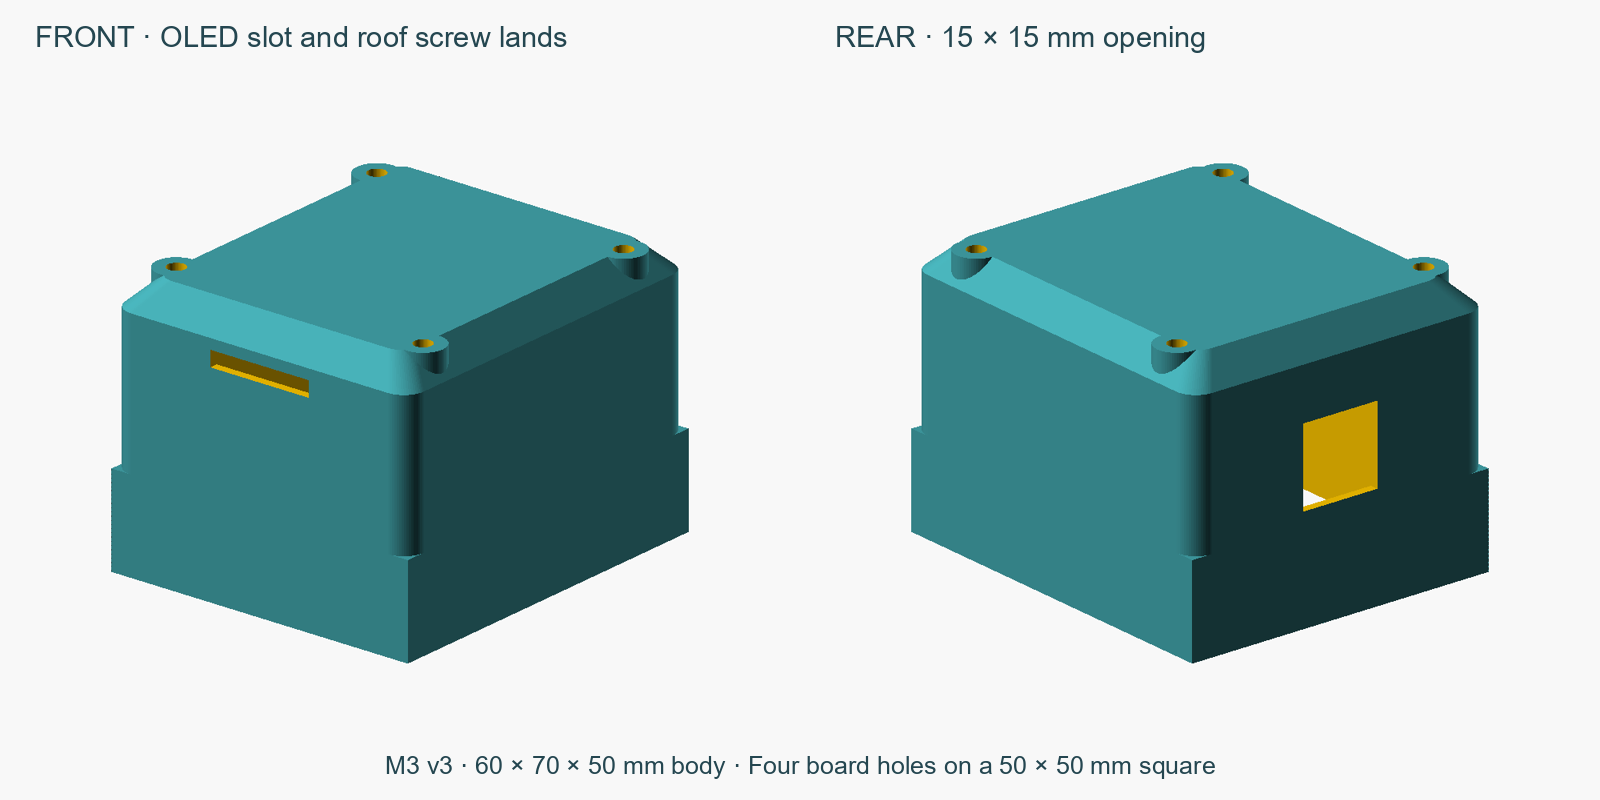
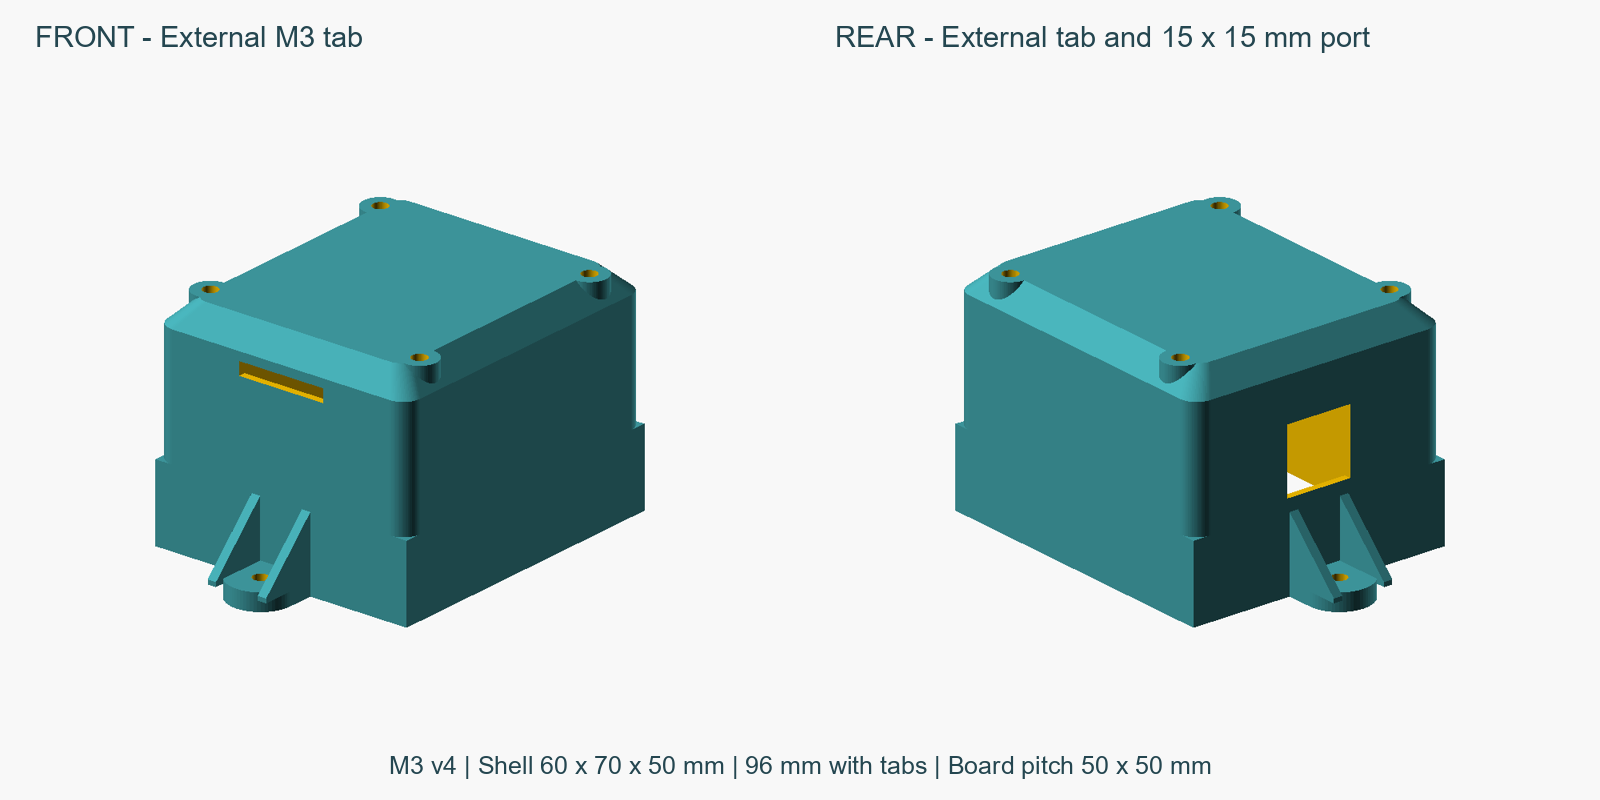
fix: orient MicroHuli chassis and move fasteners outside

diff --git a/hardware/MicroHuli/enclosure/build_body.py b/hardware/MicroHuli/enclosure/build_body.py
@@ -5,6 +5,7 @@ Uses only Python's standard library. CAD checks do not establish printed fit,
 servo clearance with real hardware, strength, or electronics compatibility.
 """
 import argparse
+from concurrent.futures import ThreadPoolExecutor
 import json
 import math
 from pathlib import Path
@@ -53,9 +54,14 @@ def check_assembly(openscad):
     checks = []
     with tempfile.TemporaryDirectory(prefix="microhuli-body-") as directory:
         folder = Path(directory)
+        cases = []
 
         def intersection(name, geometry, tools, minimum=0, maximum=0.01):
-            source, output = folder / "check.scad", folder / "check.stl"
+            cases.append((name, geometry, tools, minimum, maximum))
+
+        def run_case(indexed_case):
+            index, (name, geometry, tools, minimum, maximum) = indexed_case
+            source, output = folder / f"check-{index}.scad", folder / f"check-{index}.stl"
             source.write_text(
                 f'use <{SOURCE.as_posix()}>\n$fn=64;\n'
                 f'intersection() {{ {geometry} {tools} }}\n',
@@ -66,21 +72,24 @@ def check_assembly(openscad):
             found = volume(output)
             if not minimum <= found <= maximum:
                 raise ValueError(f"{name}: volume {found:.4f}, expected {minimum}..{maximum}")
-            checks.append({"check": name, "intersection_mm3": round(found, 4)})
-            print(f"PASS {name}: {found:.4f} mm3")
+            return {"check": name, "intersection_mm3": round(found, 4)}
 
-        intersection("assembled body/chassis clearance", "body();", "chassis();")
+        # Exclude the intentional shared Z=0 contact face: CGAL otherwise exports
+        # that zero-thickness surface as a non-manifold collision artifact.
+        intersection("assembled body/chassis clearance (0.001 mm face tolerance)",
+                     "body();", "translate([0,0,-0.001]) chassis();")
         # Independently specified axes catch misplaced holes and obstructions.
-        for y in (-29, 29):
+        for y in (-41, 41):
             intersection(f"chassis bolt {y}: shank/nut/tool access",
                          "union() { body(); chassis(); }", f'''union() {{
-                translate([0,{y},-1]) cylinder(d=3.2,h=9);
-                translate([0,{y},7.1]) cylinder(d=5.5/cos(30),h=20,$fn=6);
-                translate([0,{y},-20]) cylinder(d=8,h=19.9);
+                translate([0,{y},-6]) cylinder(d=3.2,h=11);
+                translate([0,{y},-20]) cylinder(d=5.5/cos(30),h=17.5,$fn=6);
+                translate([0,{y},4.1]) cylinder(d=8,h=30);
             }}''')
-            # Ensure each drill axis passes through actual original plate material.
-            intersection(f"original plate material at bolt {y}", "original_chassis();",
-                         f"translate([0,{y},0.2]) cylinder(d=3,h=1.5);", 10.5, 10.7)
+            intersection(f"external tab support at bolt {y}", "body();", f'''difference() {{
+                translate([0,{y},0.1]) cylinder(d=10,h=0.4);
+                translate([0,{y},0]) cylinder(d=4,h=1);
+            }}''', 26.3, 26.4)
         for x in (-25, 25):
             for y in (-25, 25):
                 intersection(f"board bolt {x},{y}: shank/head/nut access", "body();", f'''union() {{
@@ -97,13 +106,23 @@ def check_assembly(openscad):
                      "translate([-7.49,33,20.01]) cube([14.98,3,14.98]);")
         intersection("front OLED slot", "body();",
                      "translate([-9.99,-36,40.01]) cube([19.98,3,2.98]);")
-        # Chassis edits must consist only of the two specified clearance holes.
-        intersection("no added chassis material", "chassis();",
-                     "difference() { cube([100,100,100],center=true); original_chassis(); }")
-        intersection("no other chassis cuts", "original_chassis();", '''difference() {
-            difference() { cube([100,100,100],center=true); chassis(); }
-            for(y=[-29,29]) translate([0,y,-1]) cylinder(d=3.4,h=20);
-        }''')
+        # Compare added material against the shell so its rounded corners are
+        # not incorrectly classified as internal fastener obstructions.
+        intersection("lower body cavity clear of chassis mounts", "difference() { body(); shell(); }",
+                     "translate([-29,-33.99,0.01]) cube([58,67.98,19.9]);")
+        intersection("chassis entirely below the plate plane", "chassis();",
+                     "translate([-50,-50,0.01]) cube([100,100,30]);")
+        intersection("no original chassis cuts", "rotate([180,0,0]) original_chassis();",
+                     "difference() { cube([120,120,120],center=true); chassis(); }")
+        intersection("no added material in servo bays", '''difference() {
+            chassis(); rotate([180,0,0]) original_chassis();
+        }''', "translate([-27,-30.9,-20]) cube([54,61.8,19.9]);")
+        # Isolate the independent CAD renders and allow at most four processes
+        # at once to keep verification time and memory use bounded.
+        with ThreadPoolExecutor(max_workers=4) as pool:
+            for result in pool.map(run_case, enumerate(cases)):
+                checks.append(result)
+                print(f"PASS {result['check']}: {result['intersection_mm3']:.4f} mm3")
     return checks
 
 
@@ -119,27 +138,27 @@ def main():
     output.mkdir(parents=True, exist_ok=True)
     reports = {}
     for name in ("body", "chassis"):
-        path = output / f"MicroHuli_{name}_M3_v3.stl"
+        path = output / f"MicroHuli_{name}_M3_v4.stl"
         render(openscad, SOURCE, path, "--export-format", "binstl", "-D", f'part="{name}"')
         reports[name] = mesh(path)[2]
-        expected = [60, 70, 50] if name == "body" else [53, 66, 15.996]
+        expected = [60, 96, 50] if name == "body" else [53, 96, 15.996]
         if any(not math.isclose(a, b, abs_tol=0.01)
                for a, b in zip(reports[name]["size_mm"], expected)):
             raise ValueError(f"Unexpected {name} dimensions: {reports[name]}")
         print(f"PASS {name}: {reports[name]}")
     checks = check_assembly(openscad)
-    (output / "body_M3_v3_report.json").write_text(json.dumps({
+    (output / "body_M3_v4_report.json").write_text(json.dumps({
         "parts": reports, "checks": checks,
         "qualification": "CAD geometry only; no slicing or physical qualification",
     }, indent=2) + "\n", encoding="utf-8")
     if args.previews:
         for name, camera in (
-            ("assembly", "130,160,110,0,0,25"),
-            ("cutaway", "110,-160,105,0,0,24"),
+            ("assembly", "130,160,110,0,0,18"),
+            ("cutaway", "110,-160,105,0,0,18"),
             ("exploded", "120,-170,125,0,0,35"),
             ("body", "110,160,-100,0,0,25"),
         ):
-            render(openscad, SOURCE, output / f"body_M3_v3_{name}.png",
+            render(openscad, SOURCE, output / f"body_M3_v4_{name}.png",
                    "--render", "--imgsize=1200,1000", "--colorscheme=Tomorrow",
                    f"--camera={camera}", "--viewall", "--autocenter", "--projection=o",
                    "-D", f'part="{name}"', "-D", "print_orientation=false")

diff --git a/hardware/MicroHuli/enclosure/body-cute-50mm.md b/hardware/MicroHuli/enclosure/body-cute-50mm.md
@@ -1,11 +1,13 @@
 # MicroHuli body with a small sloped roof edge
 
 This is the corrected body requested after the raised-rim interpretation was
-rejected. Outside dimensions are **60 × 70 × 50 mm total**, including the roof.
+rejected. The main shell is **60 × 70 × 50 mm**, including the roof.
 It has a **closed top**, a small **5 mm sloped shoulder** like the original
 cover, softly rounded upper plan corners, and an open bottom for the chassis.
-The current **M3 v3** revision adds a matched drilled chassis, two chassis
-fasteners and four roof standoffs for the development board.
+The current **M3 v4** revision puts both chassis fasteners on external front/rear
+tabs. The chassis is assembled with its **flat plate on top and servo brackets
+pointing down**, leaving the body cavity free for components. Four roof standoffs
+hold the development board.
 
 ![Front and rear of the corrected body](body-cute-50mm.png)
 
@@ -16,33 +18,38 @@ fasteners and four roof standoffs for the development board.
 - Rear USB opening: **15 × 15 mm**, centered, 20–35 mm above the bottom. Its
   upper edge is **15 mm below the top**. Check actual connector alignment.
 - Upper walls and flat roof: **1.6 mm**. Lower collar: 1 mm walls with a nominal
-  **58 × 68 mm cavity for the first 16 mm**, before the front/rear mounting lugs.
+  **58 × 68 mm cavity for the first 16 mm**, without internal chassis mounting lugs.
   A short transition joins the square collar to rounded upper corners. The cavity
   narrows beneath the roof shoulder.
-- Two chassis screws: **58 mm apart**, at X=0, Y=±29 mm. Body lugs contact the
-  approximately 2 mm chassis plate and include 5.8 mm across-flats nut pockets.
-  The original servo brackets and chassis outline are preserved; only two
-  **3.4 mm through holes** are cut into the original chassis plate.
+- Two external chassis screws: **82 mm apart**, at X=0, Y=±41 mm. Each body tab
+  is 4 mm thick and mates with a 5 mm chassis tab. Both have **3.4 mm through
+  holes**. The chassis tabs have 5.8 mm across-flats nut pockets open from below.
+  External side ribs reinforce the body tabs and leave the screw/tool axes clear.
+  The original chassis plate and servo brackets have no holes or cuts added.
 - Four board screws: **50 × 50 mm centre-to-centre**, at X=±25, Y=±25 mm.
   Standoffs are 8 mm diameter with 3.4 mm through holes. Their PCB contact plane
   is Z=40 mm, 8.4 mm below the main roof underside. Flat screw-head lands extend
   through the sloped roof shoulder; screw heads sit outside the roof. Local
   relief below the posts clears 7 mm washers/nuts and retains 1.3 mm outer wall.
-- Nominal plastic envelope remains **60 × 70 × 50 mm**; exposed fastener heads
-  add height. The supplied hole spacing does not establish the board outline,
+- The external tabs extend **13 mm beyond each end** of the shell. Body plastic
+  envelope is **60 × 96 × 50 mm**, revised chassis is **53 × 96 × 15.996 mm**.
+  In assembly, the chassis extends below the body, giving about **66 mm total
+  plastic height**, without legs or screw heads. The supplied board hole spacing
+  does not establish the board outline,
   populated component envelope, connector alignment or battery/wiring clearance.
 
 ## M3 assembly
 
-Use the **M3 v3 body and chassis together**. Earlier body exports have no mounts;
-the original chassis has no matching M3 holes. Exported parts are in millimetres.
+Use the **M3 v4 body and chassis together**. V3 used internal mounting lugs and
+the wrong assembled chassis orientation; do not mix those exports with v4.
+Exported STL files are oriented for printing, not assembled positioning.
 
-1. Dry-fit the printed chassis inside the body's lower opening with power
-   disconnected. Its bottom plate and the body rim share Z=0; the servo brackets
-   extend into the lower body. Check the actual servos, plugs and moving legs.
-2. With the body still separate, place **two ordinary M3 hex nuts** into the
-   internal front/rear pockets from the cavity side. Tweezers may help. The
-   pockets are open above the nuts; printed retention is not assumed.
+1. With power disconnected, turn the printed chassis over so the flat plate is
+   on top and all servo brackets point down. Its plate top is assembled Z=0;
+   the brackets reach approximately Z=-16 mm. The body rim also meets Z=0.
+2. Put **two ordinary M3 hex nuts** into the underside pockets of the external
+   chassis tabs. All chassis fastener hardware is accessible outside the shell;
+   printed nut retention is not assumed.
 3. Mount the development board under the roof using **four M3 × 16 mm bolts,
    four M3 nuts and suitable M3 washers**. Bolts enter from outside the roof,
    pass through the standoffs and board, and receive nuts below the PCB. The
@@ -50,17 +57,18 @@ the original chassis has no matching M3 holes. Exported parts are in millimetres
    where possible. Use insulating washers and verify clearance from copper,
    solder and components. The length assumes approximately 1.6 mm PCB thickness;
    dry-fit the hardware and check protruding ends before tightening.
-4. Place the body onto the revised chassis. Insert **two M3 × 12 mm bolts with
-   washers from underneath the chassis** into the body nuts. The plastic grip to
-   each nut floor is approximately 7 mm. Tighten gently; these are printed lugs.
+4. Align the external front/rear body and chassis tabs. Insert **two M3 × 12 mm
+   bolts with washers from above the body tabs**, into the chassis nuts below.
+   Grip to each nut's bearing face is approximately 6.4 mm. Hold the nuts from
+   below if necessary and tighten gently. The external ribs clear an 8 mm tool
+   envelope above each screw axis.
 5. Check USB access through the enlarged rear opening, wire routing, battery
    clearance and leg travel before powering the robot.
 
-Reprinting the revised chassis gives the matching holes. To reuse an existing
-chassis, the nominal axes are on its centreline, **4 mm inward from each short
-edge** (58 mm apart). Remove all electronics and servos before drilling; check
-the printed dimensions and hole positions first. No drilling template or
-physical drilling test is included.
+**Reprint the revised chassis:** its integral external tabs are required. Drilling
+the old chassis does not add these tabs. The current design adds material only
+at the front/rear tabs, leaving the original servo bays clear in CAD. Physical
+servo, leg and ground clearance still need checking.
 
 ![M3 body and chassis, cut away to show the mounts](body-m3-cutaway.png)
 
@@ -74,17 +82,17 @@ python hardware/MicroHuli/enclosure/build_body.py --previews
 
 Outputs in `exports/`:
 
-- `MicroHuli_body_M3_v3.stl`: body, roof on the bed.
-- `MicroHuli_chassis_M3_v3.stl`: original chassis with the two matching holes,
-  bottom plate on the bed.
-- `body_M3_v3_report.json`: mesh, dimensions, mating clearance, port and fastener
+- `MicroHuli_body_M3_v4.stl`: body, roof on the bed.
+- `MicroHuli_chassis_M3_v4.stl`: chassis with matching external tabs, flat plate
+  on the bed and servo brackets upward. Flip it over for assembly.
+- `body_M3_v4_report.json`: mesh, dimensions, mating clearance, port and fastener
   access checks. Generated previews include assembled, cutaway and exploded views.
 
 The body export puts the closed central roof on the bed and the open bottom upward.
 The 5 mm shoulder grows outward at approximately 45° in this orientation.
 Start with a 0.4 mm nozzle and 0.2 mm layers; inspect wall paths, shoulder
-layers, nut-pocket bridges, lug gussets and both cable openings in the slicer.
-The gussets slope toward the walls to support roof-down printing. Support needs,
+layers, nut-pocket bridges, external tab ribs and both cable openings in the slicer.
+The ribs slope toward the walls to support roof-down printing. Support needs,
 physical printing, joint strength and component fit have not been verified.
 
 Set `print_orientation=false` for an upright view. Edit parameters in

diff --git a/tasks/microhuli-import.md b/tasks/microhuli-import.md
@@ -132,3 +132,37 @@ Physical Nano/OLED/IR, the connected build's 485-byte runtime memory margin and 
 - No slicing, printing or hardware qualification. Board outline, populated
   component/battery/wiring clearance, actual fasteners and printed joint strength
   still require a dry-fit.
+
+## External chassis screws and corrected orientation
+
+- User confirmed the chassis flat plate belongs on top with servo brackets down.
+  V3 previews incorrectly put the brackets inside the shell. Rigidly rotate the
+  original chassis 180 degrees about X in assembly; keep plate-on-bed orientation
+  for the printable chassis export.
+- Replace internal chassis bosses/holes with two external front/rear pairs of
+  integral tabs at Y=±41 mm, 82 mm apart. Body tabs are 4 mm thick, chassis tabs
+  5 mm, with bottom-access M3 nut pockets and top-access M3 × 12 mm screws.
+  Side ribs support the body tabs and leave the driver axis clear.
+- Shell remains 60 × 70 × 50 mm; external tabs add 13 mm at each end, giving a
+  60 × 96 × 50 mm body envelope. Keep the board mounts and 15 × 15 mm rear port.
+  Remove the v3 holes from the original chassis plate; preserve all original
+  chassis material and servo bays. Revised chassis must be reprinted.
+- Reuse branch and draft PR #55. Generate distinctly named M3 v4 artifacts to
+  avoid mixing v3 and v4. Both exported meshes pass the closed/wound/connected,
+  positive-volume, dimensions and bed checks. All 19 independent CAD checks pass,
+  including external bolt/nut/driver access, board supports, ports, lower cavity,
+  plate-up orientation and original chassis/servo-bay preservation.
+- Collision checking excludes the shared contact face by 0.001 mm for CGAL;
+  independent trimesh/manifold checking also confirms zero volumetric overlap at
+  the exact assembled position. Its mesh and clear central lower-cavity checks
+  pass. The lower-cavity CAD probe compares added material against the shell to
+  avoid counting its existing rounded corners as fastener obstructions.
+- Independent CAD renders use unique temporary files and at most four parallel
+  processes. Python compilation, changed Markdown formatting, guide links and
+  diff checks pass. All six final preview views were visually reviewed; the
+  18-file `exports/MicroHuli_M3_v4.zip` passes archive integrity checks and includes
+  the matched STL files, source, assembly guide, previews and geometry report.
+  Draft [PR #55](https://github.com/oneway8x-com/OpenHuli/pull/55) is updated to
+  describe the final external-tab design and its physical qualification limits.
+- Physical printing, joint strength, fastener fit and populated component/leg
+  clearance remain unqualified. No slicing or application/firmware changes.

diff --git a/hardware/MicroHuli/enclosure/README.md b/hardware/MicroHuli/enclosure/README.md
@@ -2,9 +2,11 @@
 
 For the corrected **60 × 70 × 50 mm body with a closed roof and small sloped
 edge**, see [the rounded 50 mm cover](body-cute-50mm.md). It retains an
-original-style OLED cable slot. Its M3 v3 revision has a 15 × 15 mm rear opening,
-two matching chassis fasteners and four roof board mounts on a 50 × 50 mm pattern.
-Use its matched body/chassis exports and assembly instructions. The
+original-style OLED cable slot. Its M3 v4 revision has a 15 × 15 mm rear opening,
+external front/rear chassis screw tabs and four roof board mounts on a 50 × 50 mm
+pattern. The chassis plate faces up with servo brackets down. Tabs increase the
+total body length to 96 mm; the shell remains 70 mm long. Use its matched
+body/chassis exports and assembly instructions. The
 [flat-top version](body-50mm.md) remains a separate alternative; the
 [100 mm raised-rim interpretation](body-cute-rim.md) was rejected by the owner.
 
